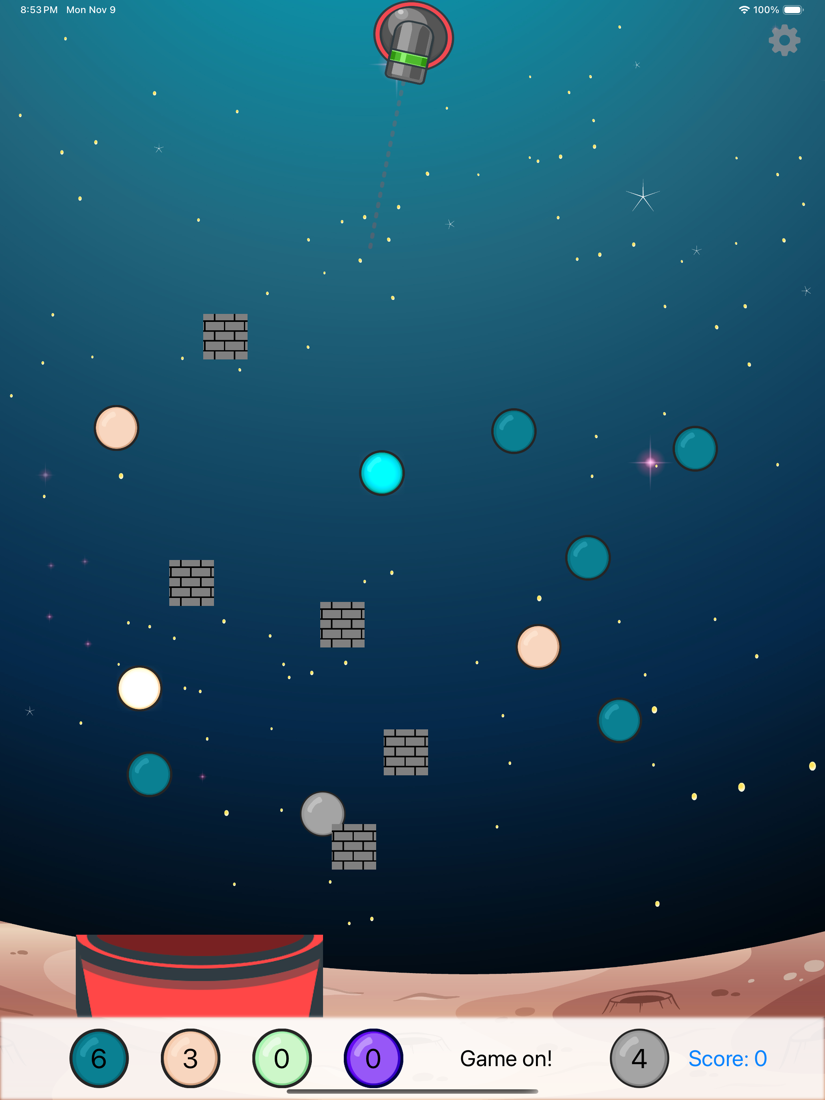
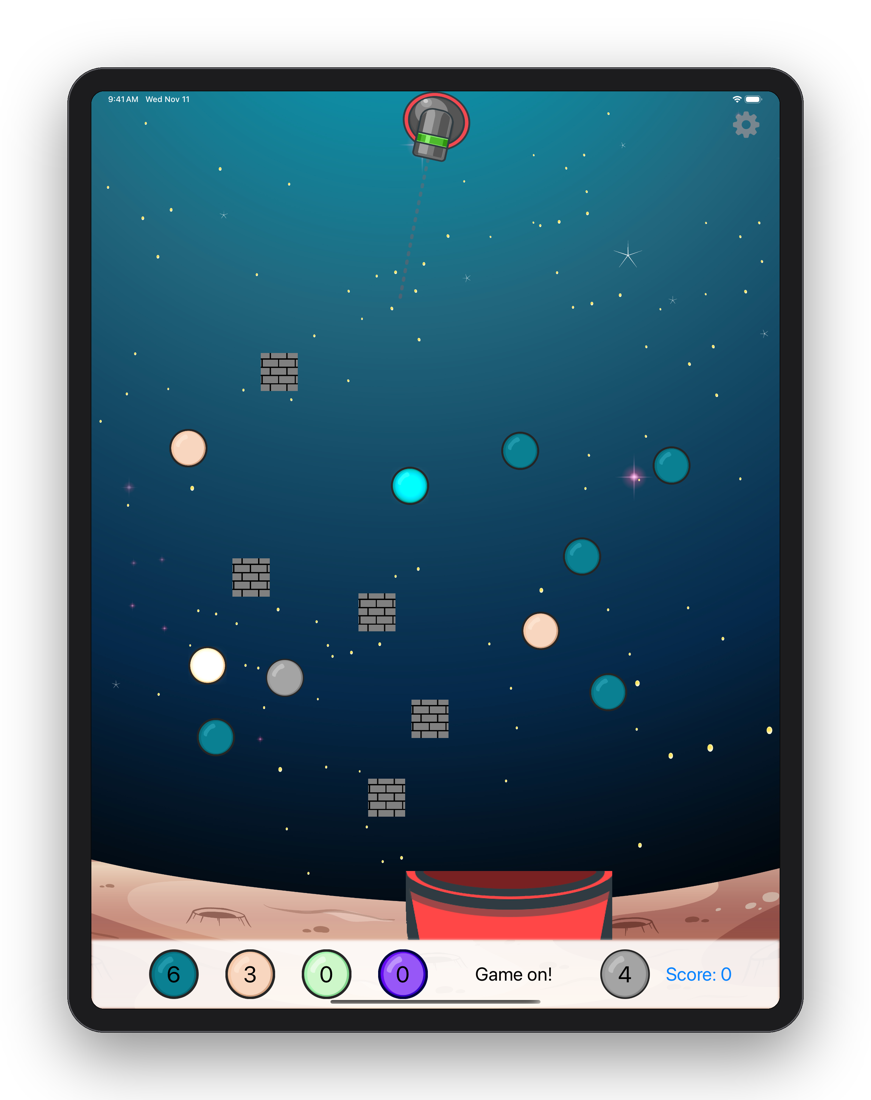
App Store-style framed screenshots (9:41 status bar); sharper iOS resume bullets; ARCHITECTURE note; link hint in the skills table

diff --git a/README.md b/README.md
@@ -121,7 +121,7 @@ physics maths, the bucket, persistence, testing and the trade-offs.
 
 ## Skills shown
 
-| Skill | Where it shows | Docs |
+| Skill | Where it shows (click the links for the code) | Docs |
 |---|---|---|
 | **SwiftUI app architecture**<br><img alt="SwiftUI" src="https://img.shields.io/badge/SwiftUI-MVVM-0D96F6?logo=swift&logoColor=white"> | Scene controller and view models: [`AppSceneController`](https://github.com/sp4ce-cowboy/SpacePeggle/blob/2167e43069ef354a38f5b61d4369939aa6c73c4b/SpacePeggle/SpacePeggle/Main/MainApp/AppSceneController.swift), [`GameSceneViewModel`](https://github.com/sp4ce-cowboy/SpacePeggle/blob/2167e43069ef354a38f5b61d4369939aa6c73c4b/SpacePeggle/SpacePeggle/ViewModels/GameSceneVM/GameSceneViewModel.swift) | [SwiftUI](https://developer.apple.com/documentation/swiftui) |
 | **Physics engine from scratch**<br><img alt="Swift" src="https://img.shields.io/badge/Swift-5-F05138?logo=swift&logoColor=white"> | Integration step: [`updatePhysics`](https://github.com/sp4ce-cowboy/SpacePeggle/blob/2167e43069ef354a38f5b61d4369939aa6c73c4b/SpacePeggle/SpacePeggle/Models/PhysicsModels/PhysicsEngine/PhysicsEngine.swift#L64-L72); collision response with conservation of momentum: [`calculateNewVelocities`](https://github.com/sp4ce-cowboy/SpacePeggle/blob/2167e43069ef354a38f5b61d4369939aa6c73c4b/SpacePeggle/SpacePeggle/Models/PhysicsModels/PhysicsEngine/PhysicsEngine%2BCollision.swift#L139-L197) | [Elastic collision](https://en.wikipedia.org/wiki/Elastic_collision) |
@@ -201,7 +201,8 @@ Music: *Field of Memories* by WaterFlame (free for non-commercial use). Sound ef
 ## On my resume
 
 - Built Space Peggle, a complete iPad physics game in Swift and SwiftUI with no game framework: a from-scratch physics engine (integration, circle–rectangle collision detection, momentum-conserving response), a game engine, a level designer and JSON persistence. About 6,800 lines of Swift.
-- Architected the game as two independent engines behind delegate protocols: a game engine for rules and scoring, and a physics engine for bodies and forces. A CADisplayLink loop in an MVVM view model drives both, so the physics engine runs and is unit-tested with no game or UI code. The final submission was graded with zero code-quality deductions.
-- Implemented collision detection by double dispatch across circle and rectangle shapes. Each check returns the penetration depth as an optional `Double`, and the same value drives position correction, with no type switches anywhere in the collision path.
-- Shipped gameplay systems on top of the engine: exploding pegs with linear force falloff to 4 radii, a portal floor, a three-body bucket that both deflects and catches the ball, hit points from 1 to 10, and live gravity switching across 4 planets. A level designer saves and validates levels as Codable JSON.
-- Wrote 14,800 words of developer guides across three cumulative NUS CS3217 problem sets (142 commits). They set out design decisions such as engine separation and where the game loop lives, each weighed against its alternatives.
+- Architected the app in MVVM, with a VIPER-style presenter coordinating three scenes, and split the game and physics engines behind delegate protocols. A CADisplayLink loop in the view model drives both, so the physics engine runs and is unit-tested with no game or UI code. The final submission was graded with zero code-quality deductions.
+- Implemented collision detection with protocol-oriented double dispatch across circle and rectangle shapes. Each check returns the penetration depth as an optional `Double`, which also drives position correction, so the collision path has no type switches and new shapes slot in.
+- Built a SwiftUI level designer with drag, rotate and resize gestures, long-press deletion, per-peg hit points (1–10) and save validation. Levels persist as Codable JSON, with swipe-to-delete level management.
+- Shipped gameplay systems on top of the engine: exploding pegs with linear force falloff to 4 radii, a portal floor, a three-body bucket that deflects and catches the ball, live gravity switching across 4 planets, a gravity-aware aiming trajectory, and AVFoundation music and effects that respect silent mode.
+- Wrote 14,800 words of developer guides across three cumulative NUS CS3217 problem sets, setting design decisions such as engine separation and game-loop placement against their alternatives, alongside XCTest unit tests and written test plans.

diff --git a/ARCHITECTURE.md b/ARCHITECTURE.md
@@ -1,5 +1,10 @@
 # Space Peggle: architecture
 
+> [!NOTE]
+> This architecture write-up was added by [Claude](https://docs.anthropic.com/en/docs/claude-code)
+> using my [agentic-repo-analysis](https://github.com/sp4ce-cowboy/agentic-workflows) skill, from the
+> project's code, git history and documentation.
+
 A technical write-up of Space Peggle, from the code, the git history of all three problem
 sets (PS2 to PS4), and the developer guides written for each. Back to the [README](README.md).
 
